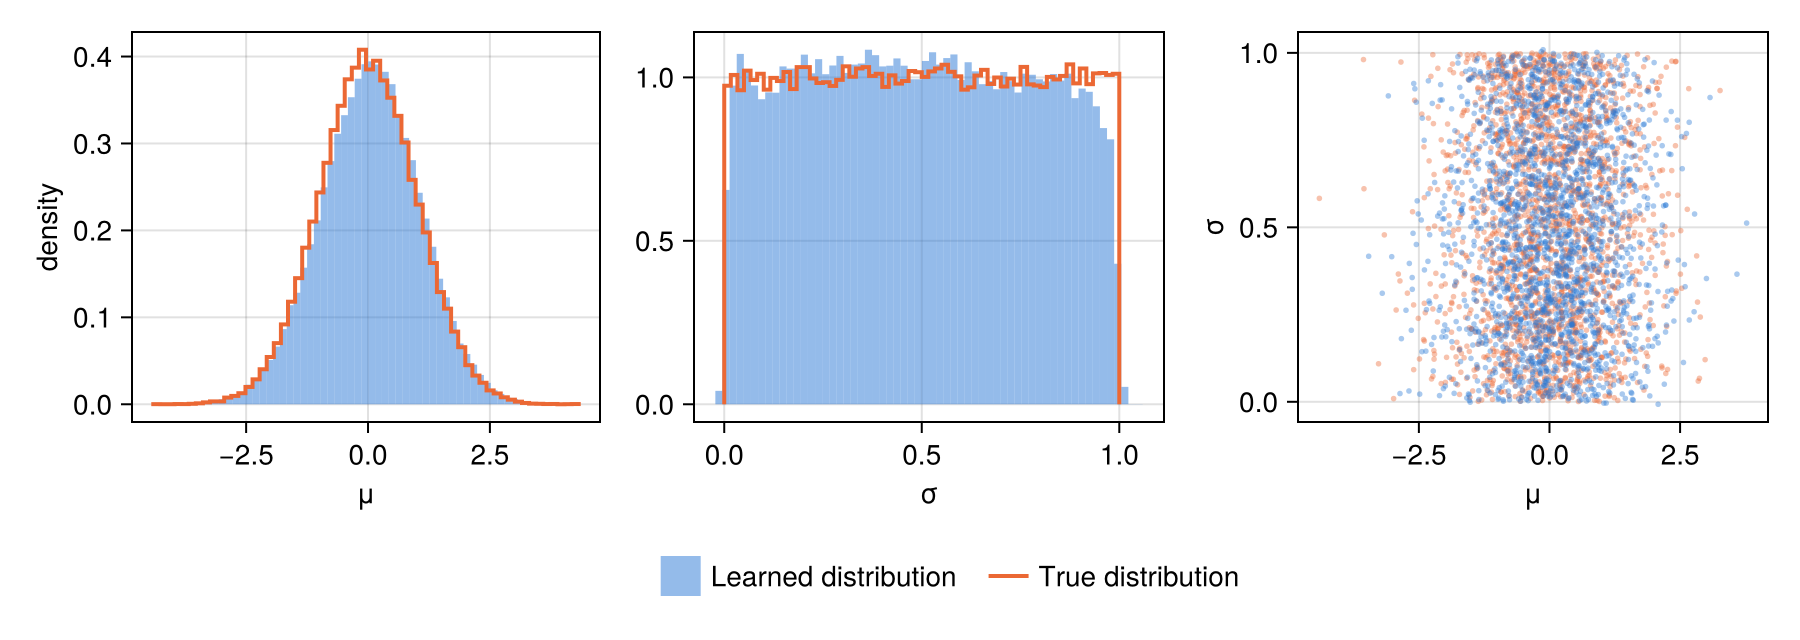
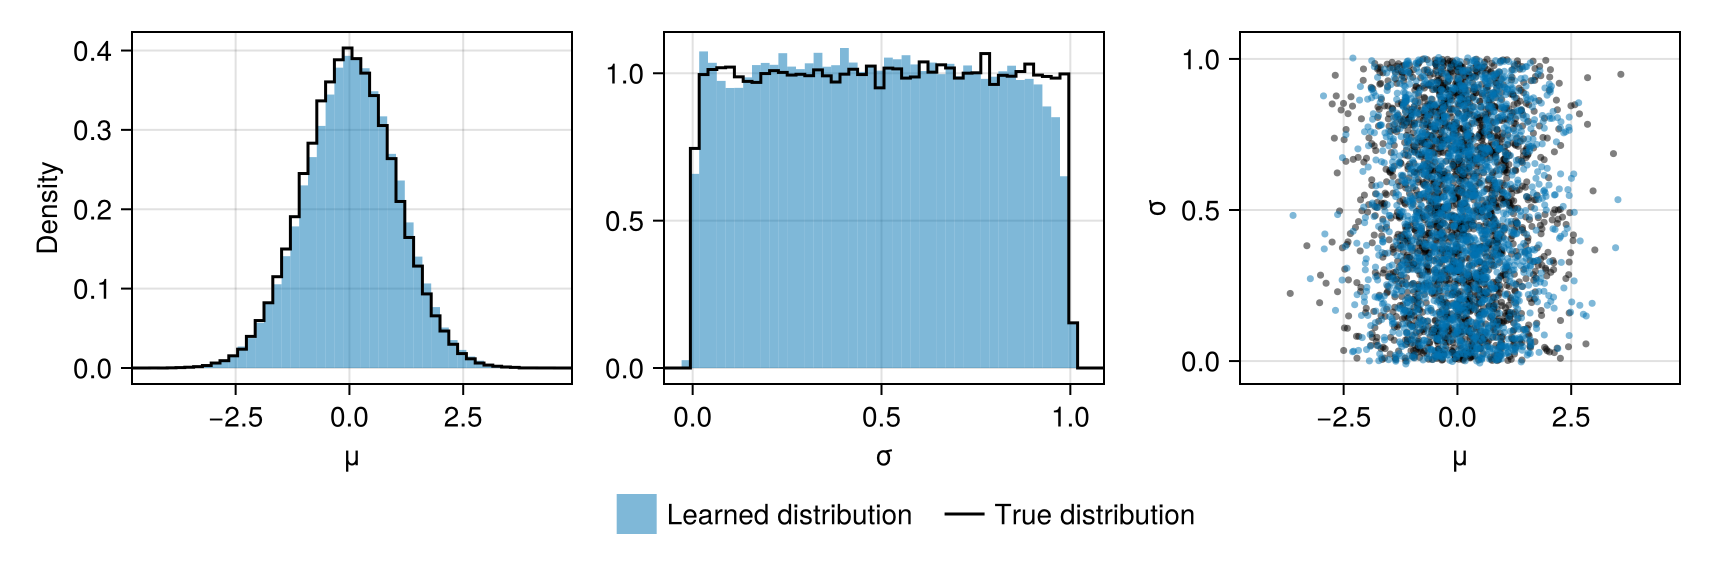
Removed constant summary for prior (unconditional) estimation

Changed region(s): [[0.031, 0.03, 0.9907, 0.811], [0.3405, 0.871, 0.712, 0.9611], [0.0, 0.3004, 0.0929, 0.4505]]

diff --git a/CONTRIBUTING.md b/CONTRIBUTING.md
@@ -66,6 +66,7 @@ AbstractNeuralEstimator
 │   ├── PointEstimator
 │   └── QuantileEstimator (and variants)
 ├── PosteriorEstimator
+├── PriorEstimator
 ├── RatioEstimator
 ```
 
@@ -73,7 +74,7 @@ Every concrete estimator wraps one or more Flux/Lux models and must be callable 
 
 ### `AbstractApproximateDistribution`
 
-An abstract type for families of parametric distributions used to approximate the posterior distribution by objects of type `PosteriorEstimator`. 
+An abstract type for families of parametric distributions used to approximate the posterior distribution by objects of type `PosteriorEstimator`, and to approximate a distribution from samples alone (i.e., unconditional density estimation) by objects of type `PriorEstimator`. 
 
 ### `AbstractParameterSet`
 
@@ -156,7 +157,11 @@ After running `import NeuralEstimators: <function name>`:
 1. `import NeuralEstimators: _logdensity, sampleposterior` and define methods:
    - `_logdensity(q::MyDist, θ::AbstractMatrix, t::AbstractMatrix)`: log-density of `q` evaluated at parameters `θ`, given summary statistics `t`.
    - `sampleposterior(q::MyDist, t::AbstractMatrix, N::Integer; device)`: draws `N` posterior samples from `q` given summary statistics `t`, where each column of `t` corresponds to an independent data set. Should return a `d × N × K` array.
-1. Test the distribution by plugging it into a `PosteriorEstimator`, then train and assess the estimator to verify correctness.
+1. Support unconditional density estimation, which `PriorEstimator` uses to learn a distribution from samples alone. In this case, the distribution is constructed with `num_summaries = 0`, and the methods above are given an empty `0 × K` matrix of summary statistics `t` (a `0 × 1` matrix in `sampleposterior`).
+   - A neural network that takes part of `θ` as input alongside the summary statistics (e.g., a coupling network of a `NormalisingFlow`) needs no changes.
+   - A neural network whose only input is the summary statistics (e.g., one mapping them to the distributional parameters) has no input in this case. Replace it with the distributional parameters themselves, learned directly, by constructing it with `_learnedconstant(backend, out => activation, ...)` when `num_summaries == 0` (see the constructors of `GaussianMixture` and `SpikeAndSlab`). Do not use a layer with no inputs instead: Lux initialises its biases to ±Inf, Flux initialises them to zero (so that, e.g., the components of a mixture are identical and remain so during training), and Reactant cannot differentiate its empty weight matrix.
+   - Parameters learned directly need a larger learning rate than the weights of a neural network. If your distribution has no neural network when unconditional, define `_defaultoptimiser(q::MyDist)` to return the larger default used by `PriorEstimator` (see `src/Estimators/PriorEstimator.jl`).
+1. Test the distribution by plugging it into a `PosteriorEstimator`, then train and assess the estimator to verify correctness. Also add the distribution to the `PriorEstimator` testsets in `test/backends.jl`.
 1. Write a docstring with a self-contained example that can be copy-pasted and run.
 
 **Consolidating into the package:**

diff --git a/docs/src/examples/data_prior.md b/docs/src/examples/data_prior.md
@@ -57,6 +57,8 @@ By default, a [`PriorEstimator`](@ref) approximates the distribution with a [`No
 estimator = PriorEstimator(d)
 ```
 
+For example, `PriorEstimator(d; q = GaussianMixture)` approximates the distribution with a Gaussian mixture, whose parameters are learned directly rather than as the output of a neural network; since such parameters require a larger learning rate, [`train`](@ref) then uses a larger learning rate by default (see [`PriorEstimator`](@ref)).
+
 ## Training the estimator
 
 We train the estimator with [`train`](@ref), passing the training and validation samples. No data or simulator are needed:
